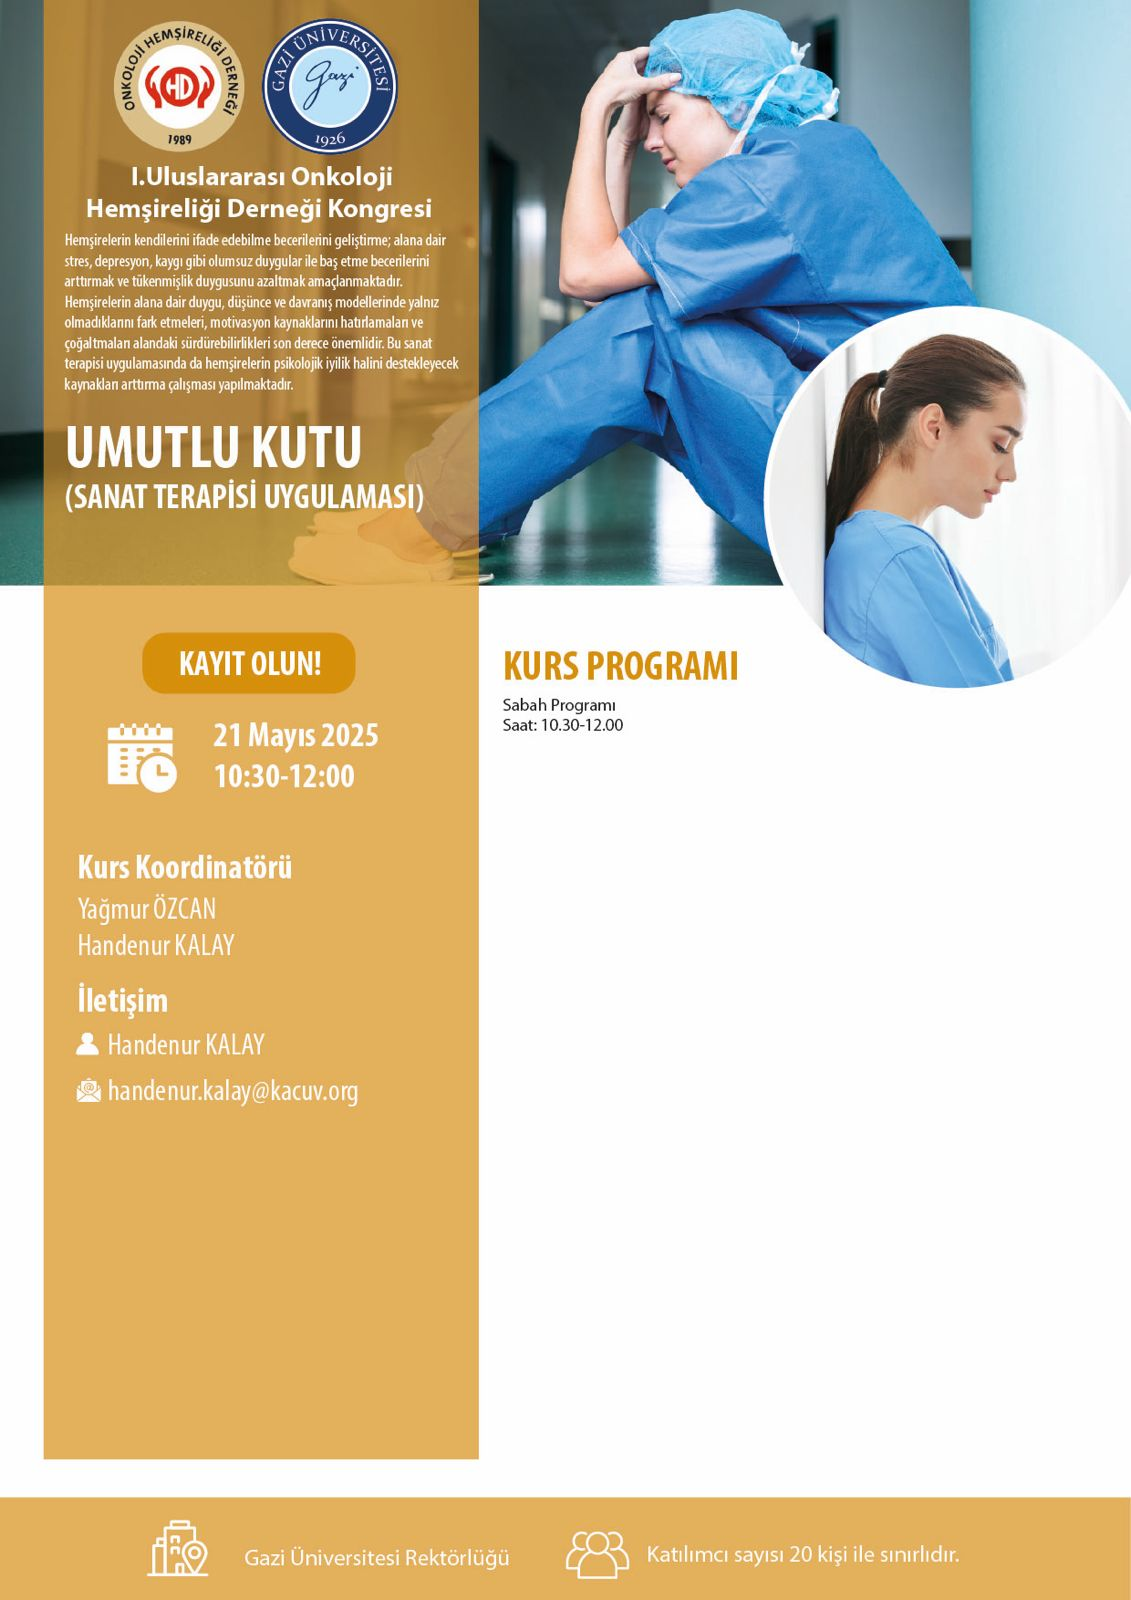
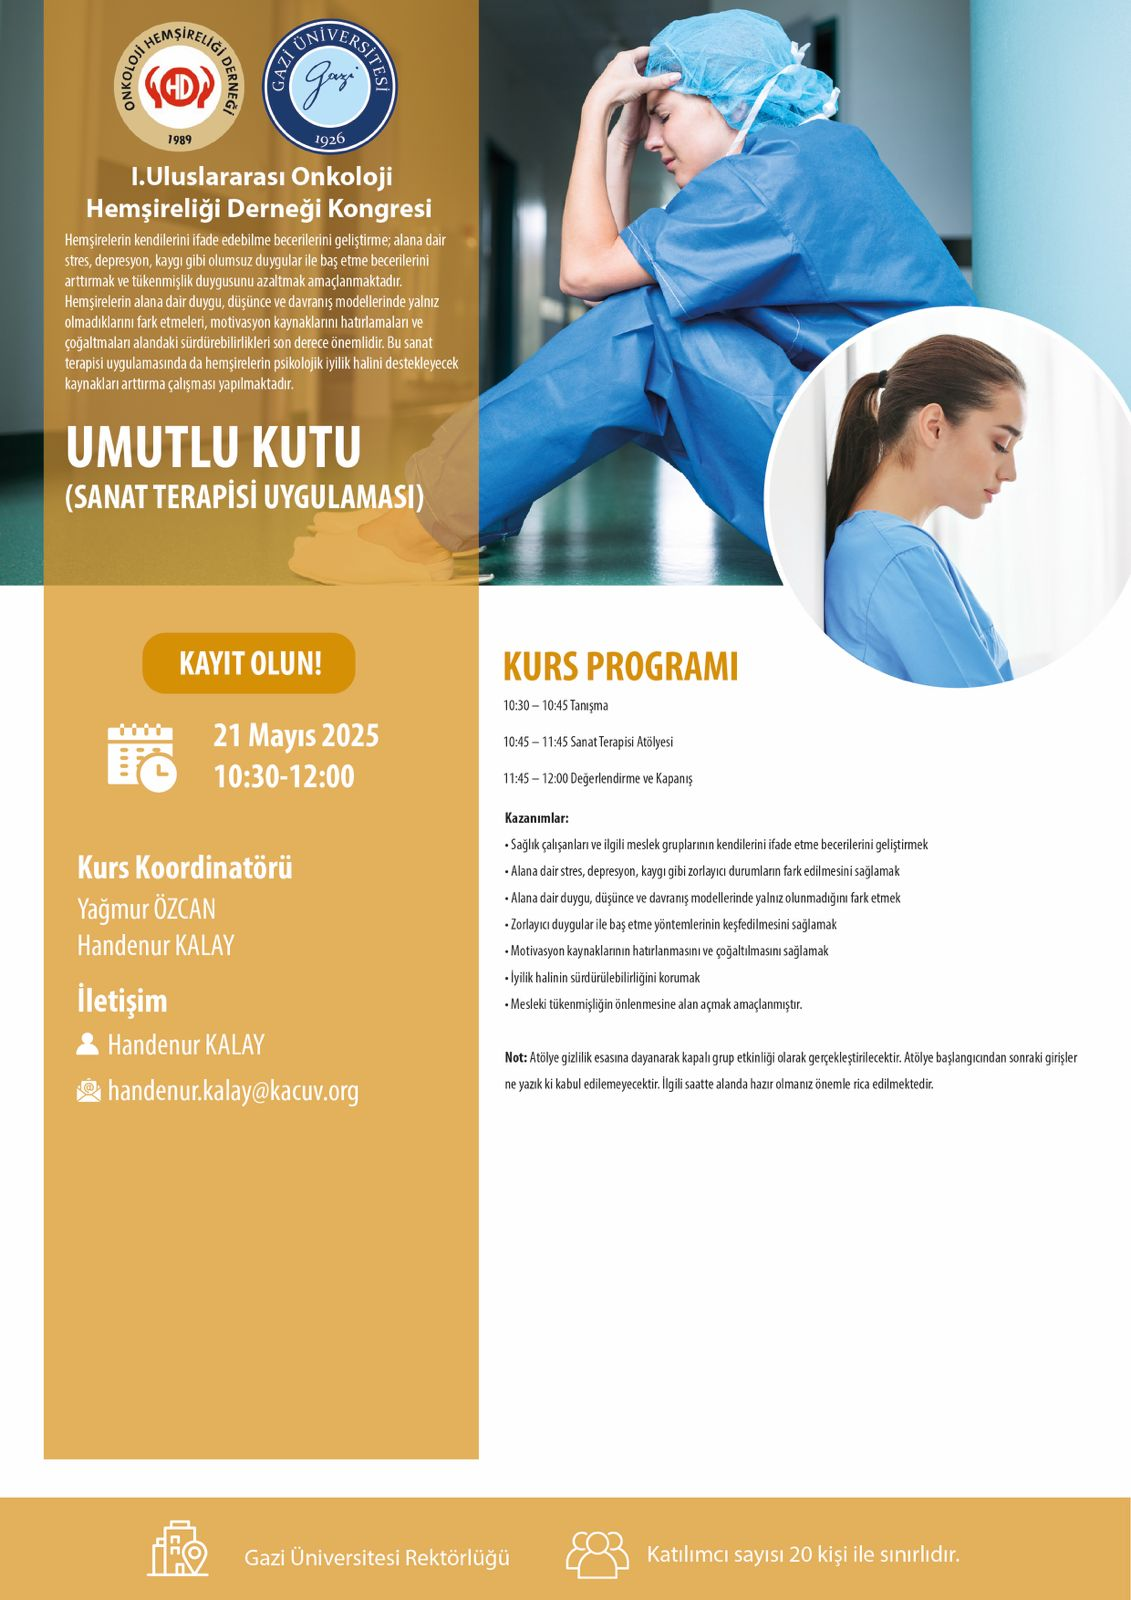
kurs revizesi yapıldı.

diff --git a/program.php b/program.php
@@ -918,7 +918,7 @@
             button.addEventListener('click', function() {
                 const courseName = this.getAttribute('data-course');
                 const modalContent = document.getElementById('modal-1-content');
-                modalContent.innerHTML = `<img src="/doc/kurslar/${courseName}.jpg?v=3" class="w-100" alt="Kurs Detayı">`;
+                modalContent.innerHTML = `<img src="/doc/kurslar/${courseName}.jpg?v=4" class="w-100" alt="Kurs Detayı">`;
 
                 MicroModal.show('modal-1', {
                     onShow: modal => console.info(`${modal.id} is shown`),
